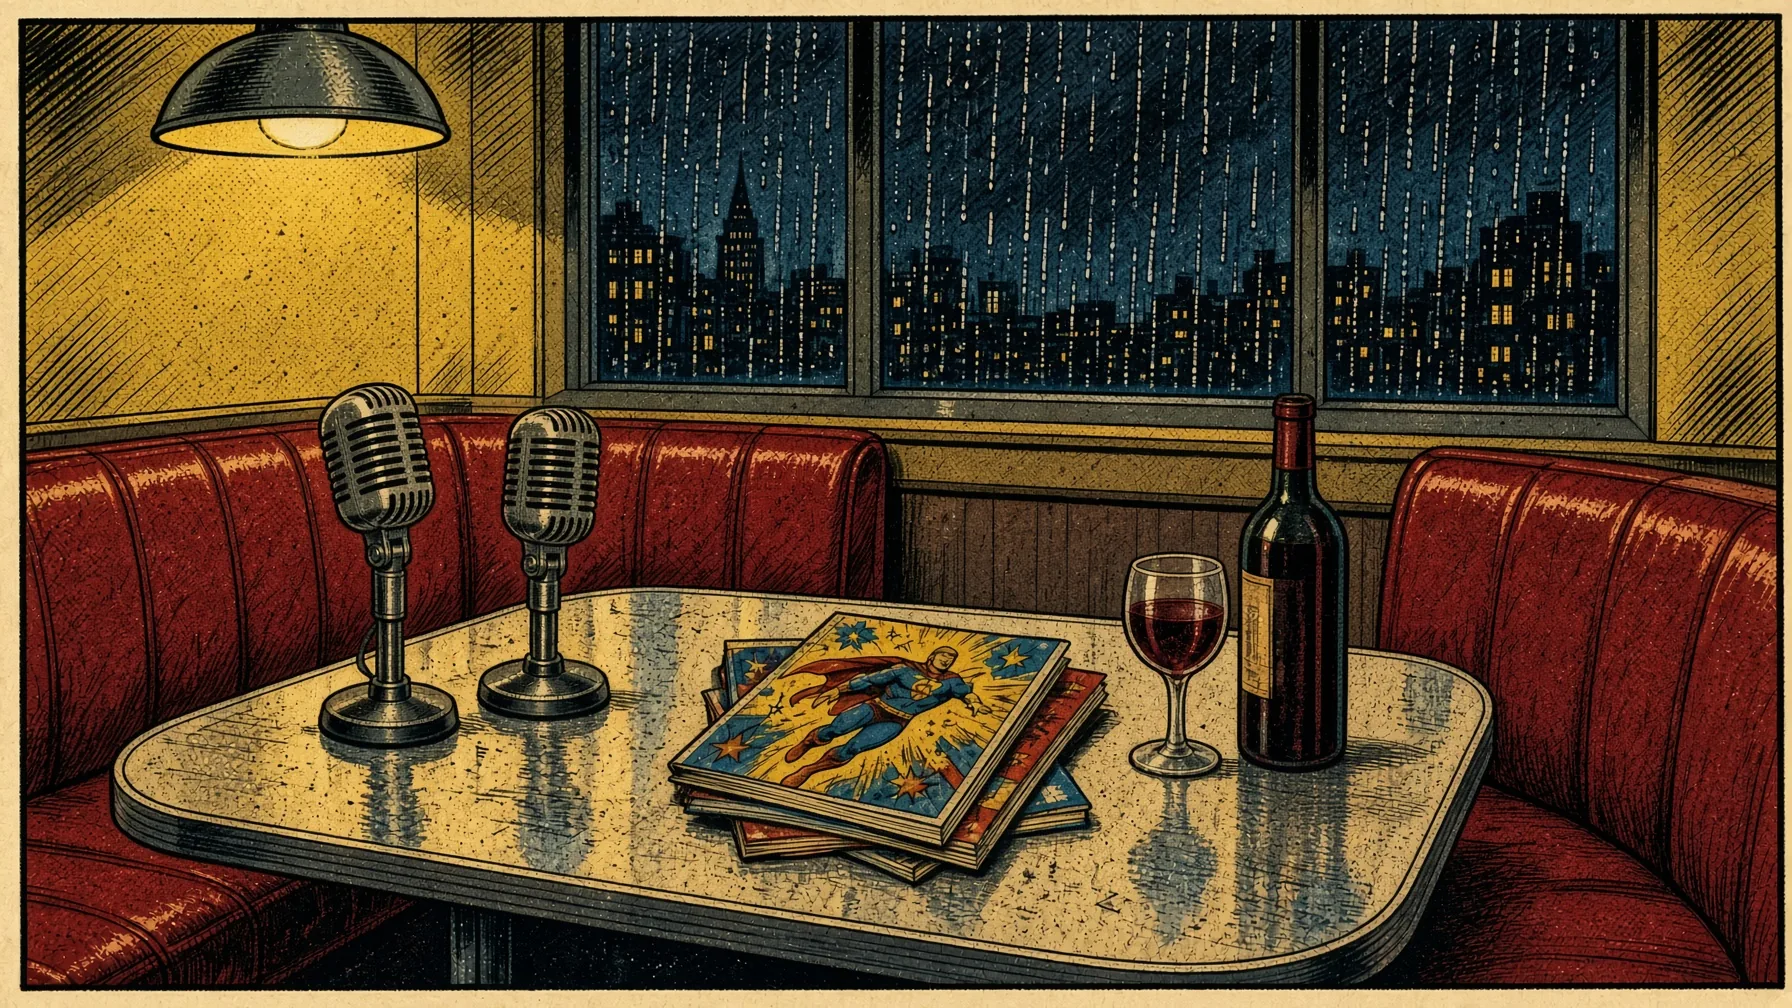
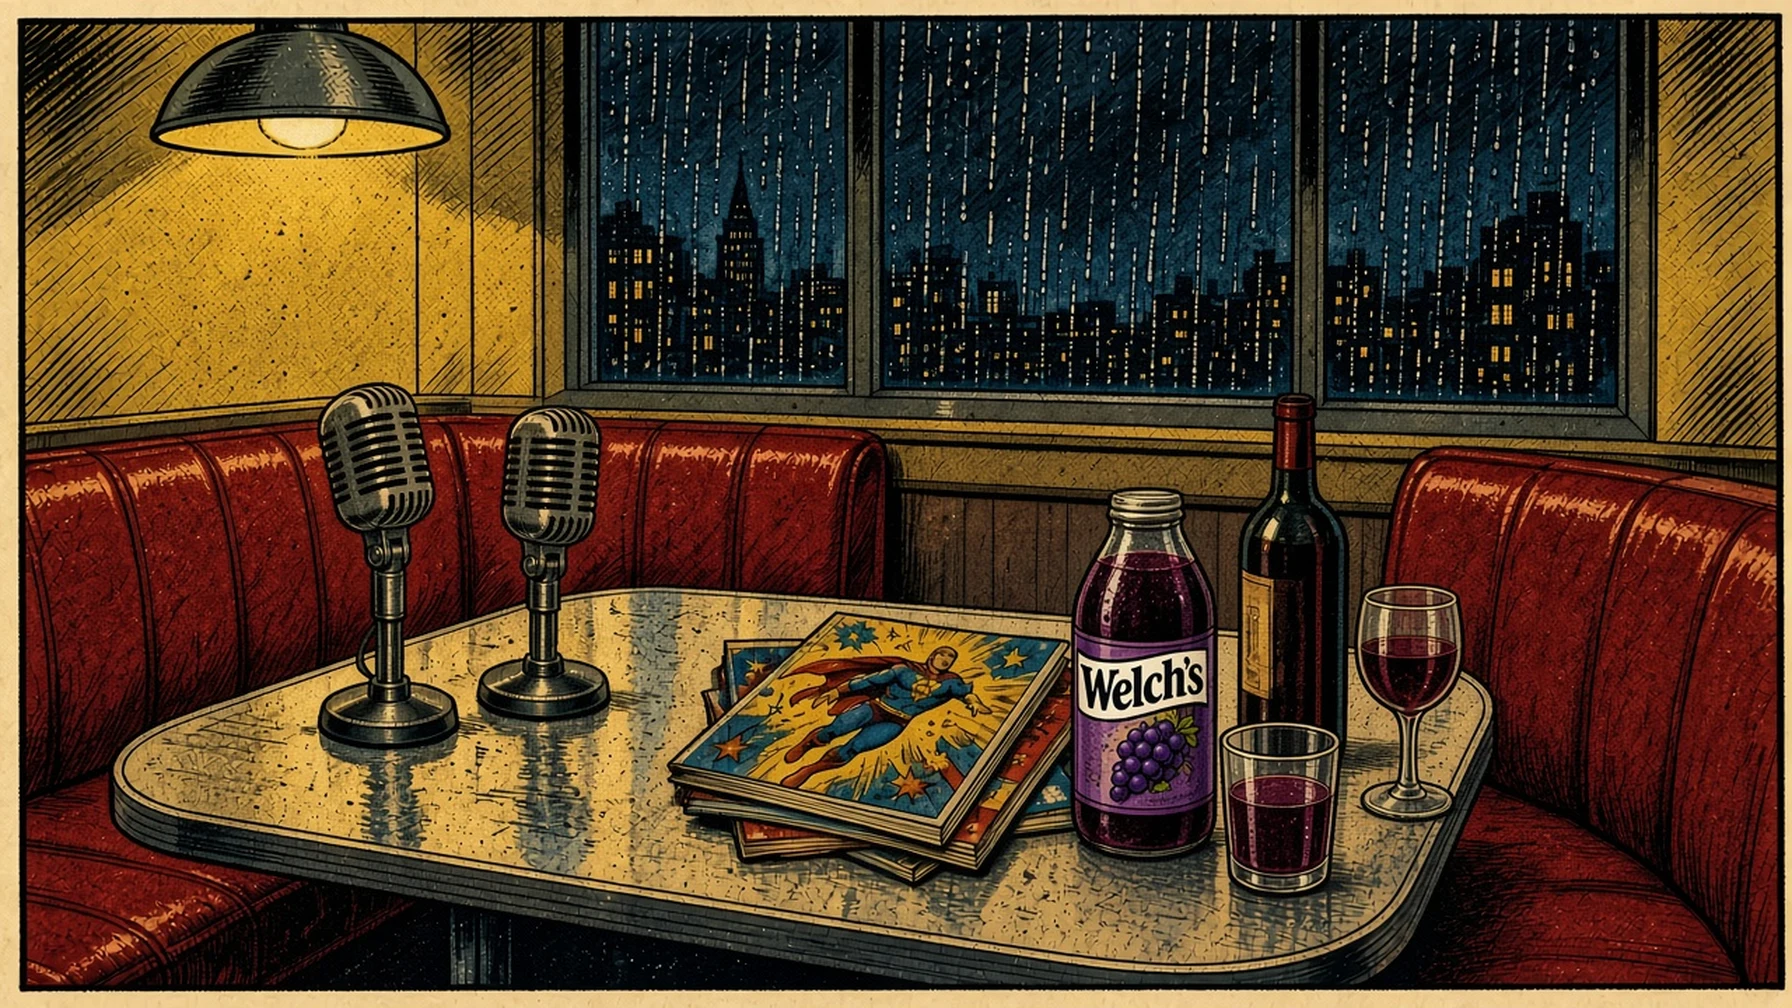
Crew image: add Welch's grape juice (#33)
Replace the hosts-page studio illustration with a version that keeps the wine bottle and glass and adds a Welch's bottle and a glass of grape juice. Bump the image cache-buster to ?v=3.

diff --git a/src/routes/hosts.tsx b/src/routes/hosts.tsx
@@ -31,8 +31,8 @@ function HostsPage() {
       <section className="mx-auto max-w-6xl px-4 pb-16 sm:px-6">
         <div className="panel overflow-hidden bg-surface md:grid md:grid-cols-2">
           <img
-            src="/images/studio.webp?v=2"
-            alt="Empty diner booth with two microphones, a stack of comics, and wine."
+            src="/images/studio.webp?v=3"
+            alt="Empty diner booth with two microphones, a stack of comics, wine, and Welch's grape juice."
             className="h-full min-h-64 w-full object-cover md:border-r-4 md:border-ink"
           />
           <div className="flex flex-col justify-center bg-paper p-6 sm:p-10">
